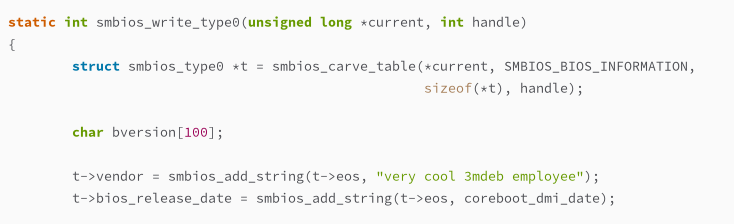
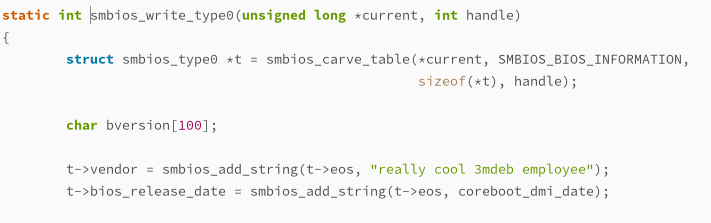
presentations/dasharo-onboarding.md: updated images in VP4630 exercises

diff --git a/dasharo-onboarding.md b/dasharo-onboarding.md
@@ -529,9 +529,7 @@ I'll modify it so that the boot menu key is Esc:
 
 ### Exercise 2
 
-Change the BIOS information - "Vendor", it can be checked using `dmidecode`:
-
-![](img/dmidecode_original.png)
+Change the BIOS information - "Vendor", it can be checked using `dmidecode`.
 
 ---
 
@@ -539,7 +537,12 @@ Change the BIOS information - "Vendor", it can be checked using `dmidecode`:
 
 Same as for the VP2410, edit file `coreboot/src/arch/x86/smbios.c`, function `smbios_write_type0`, variable `t->vendor`:
 
-![](img/dmidecode_changed.png)
+![](img/vp4630_bios_vendor_config.png)
+
+...and it works!:
+
+![](img/vp4630_bios_vendor_changed.png)
+
 
 
 ---
